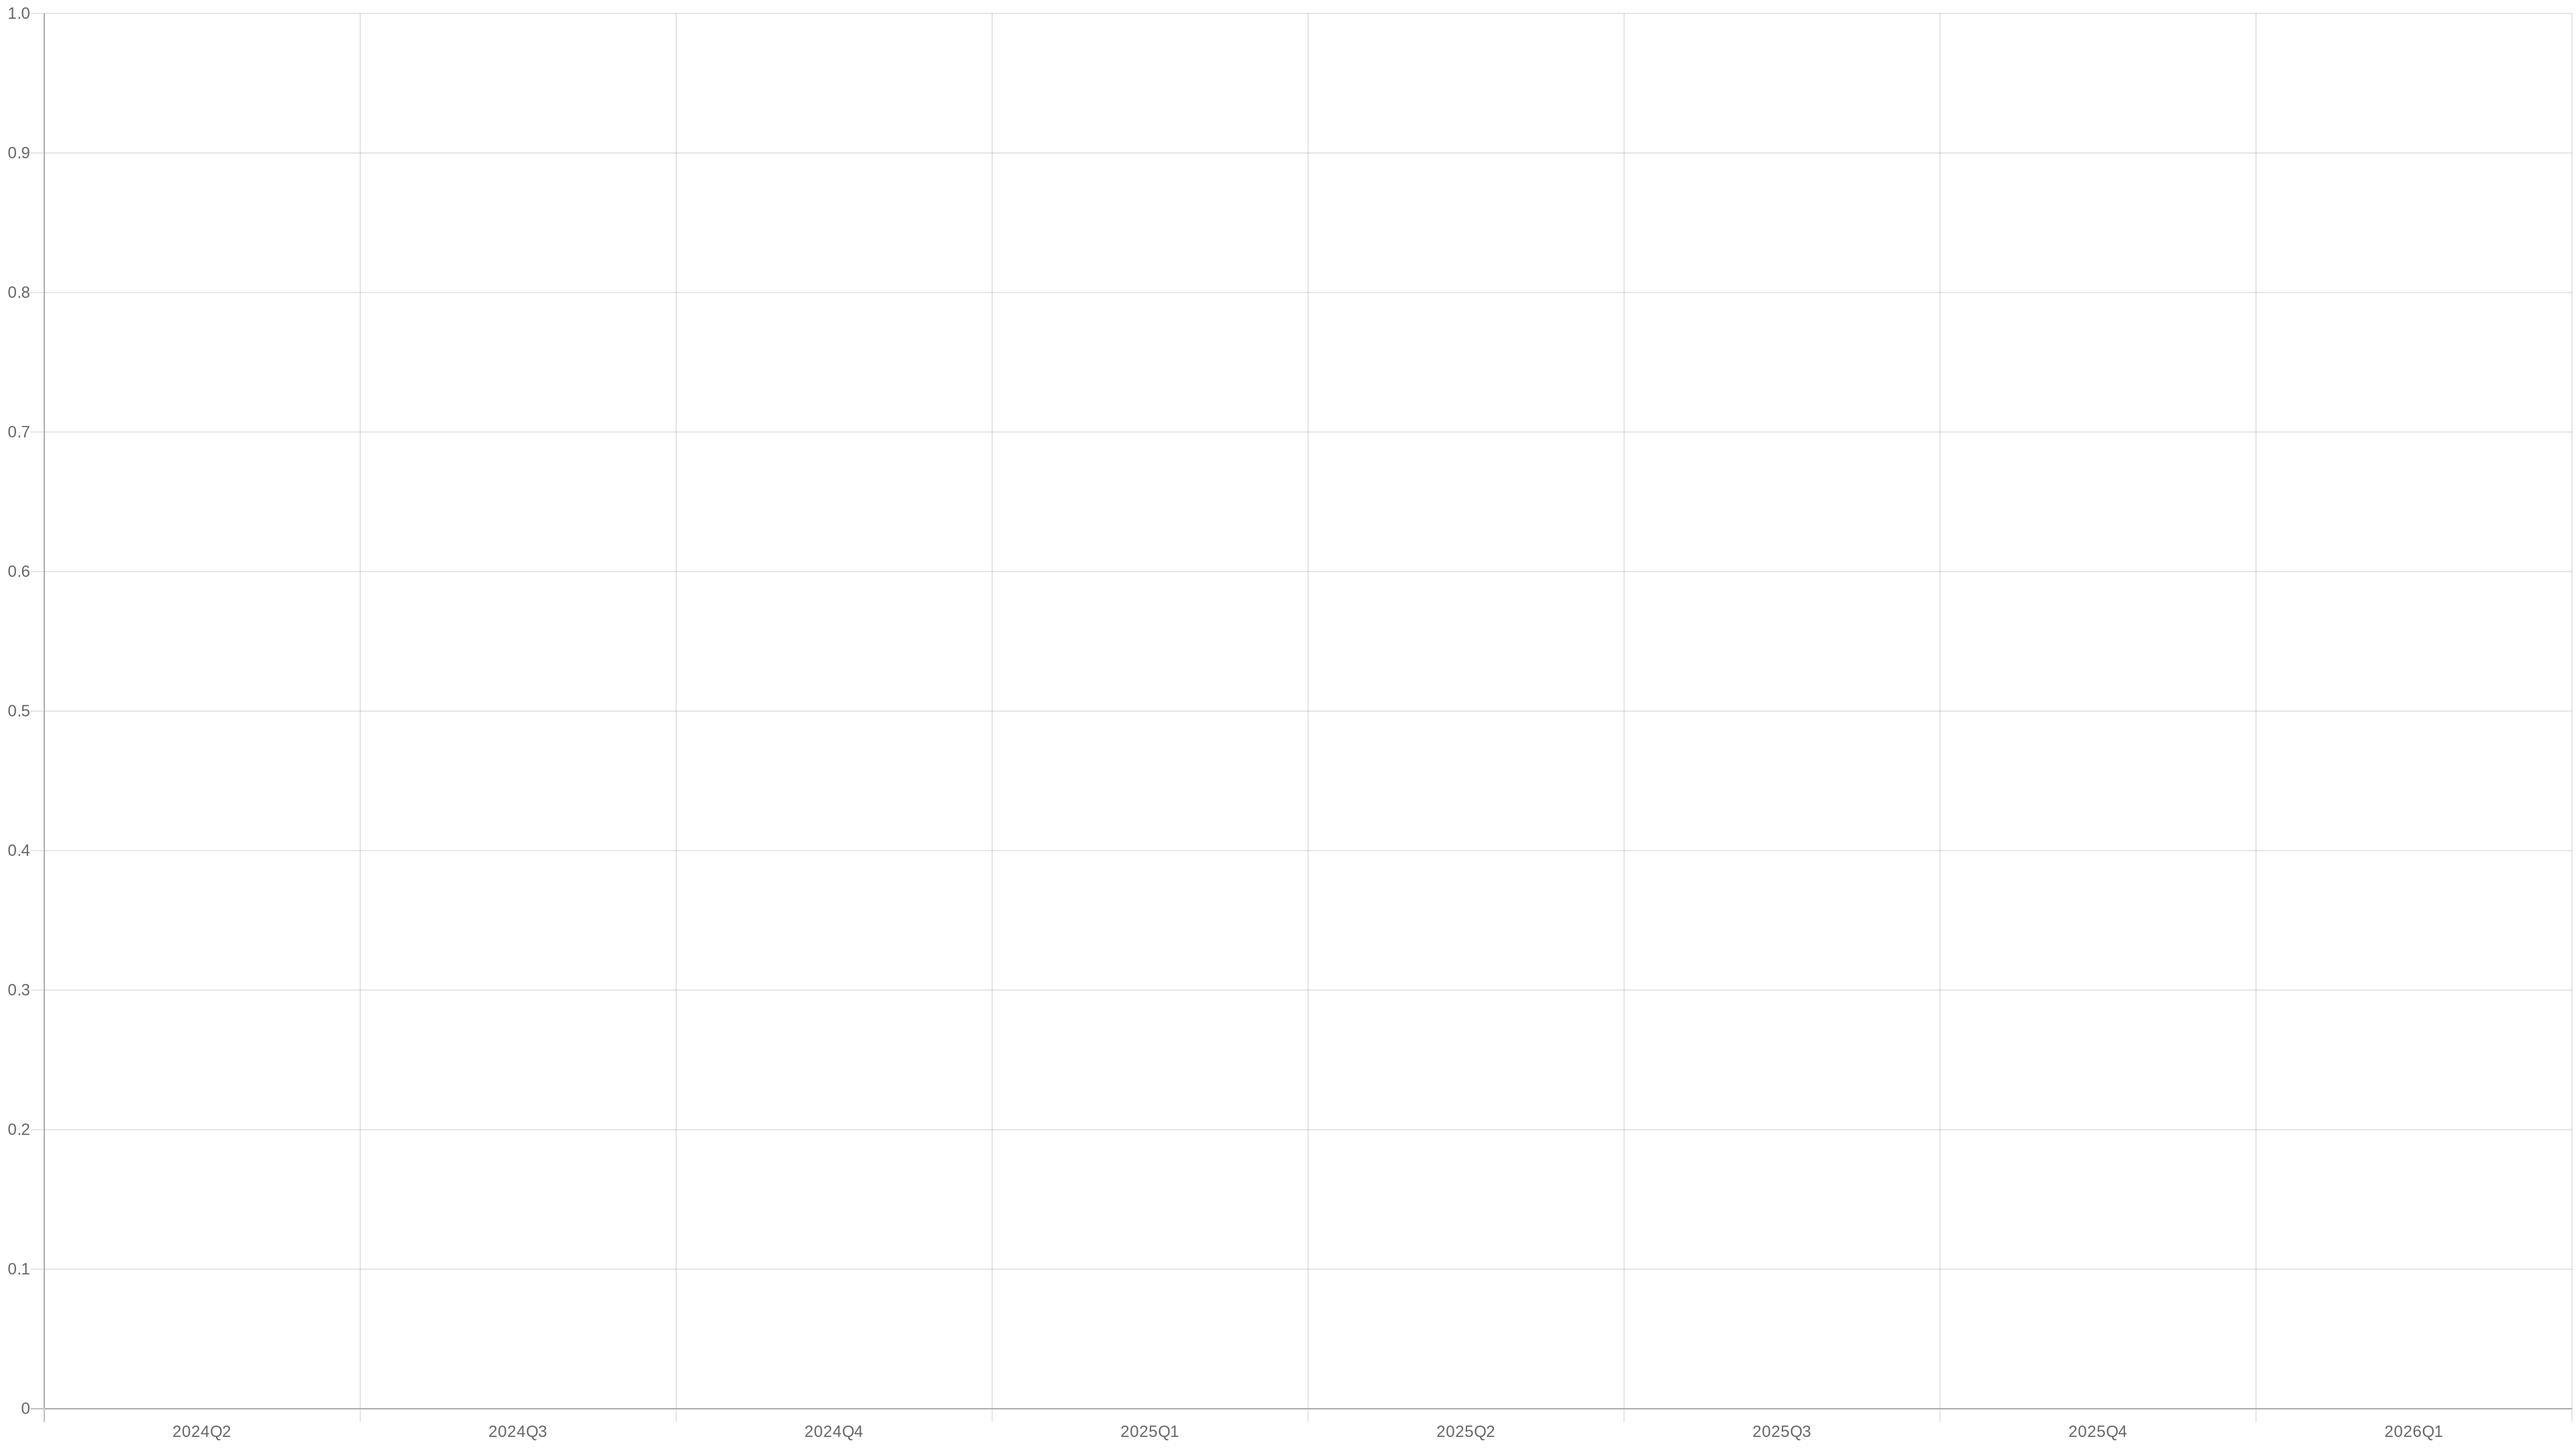
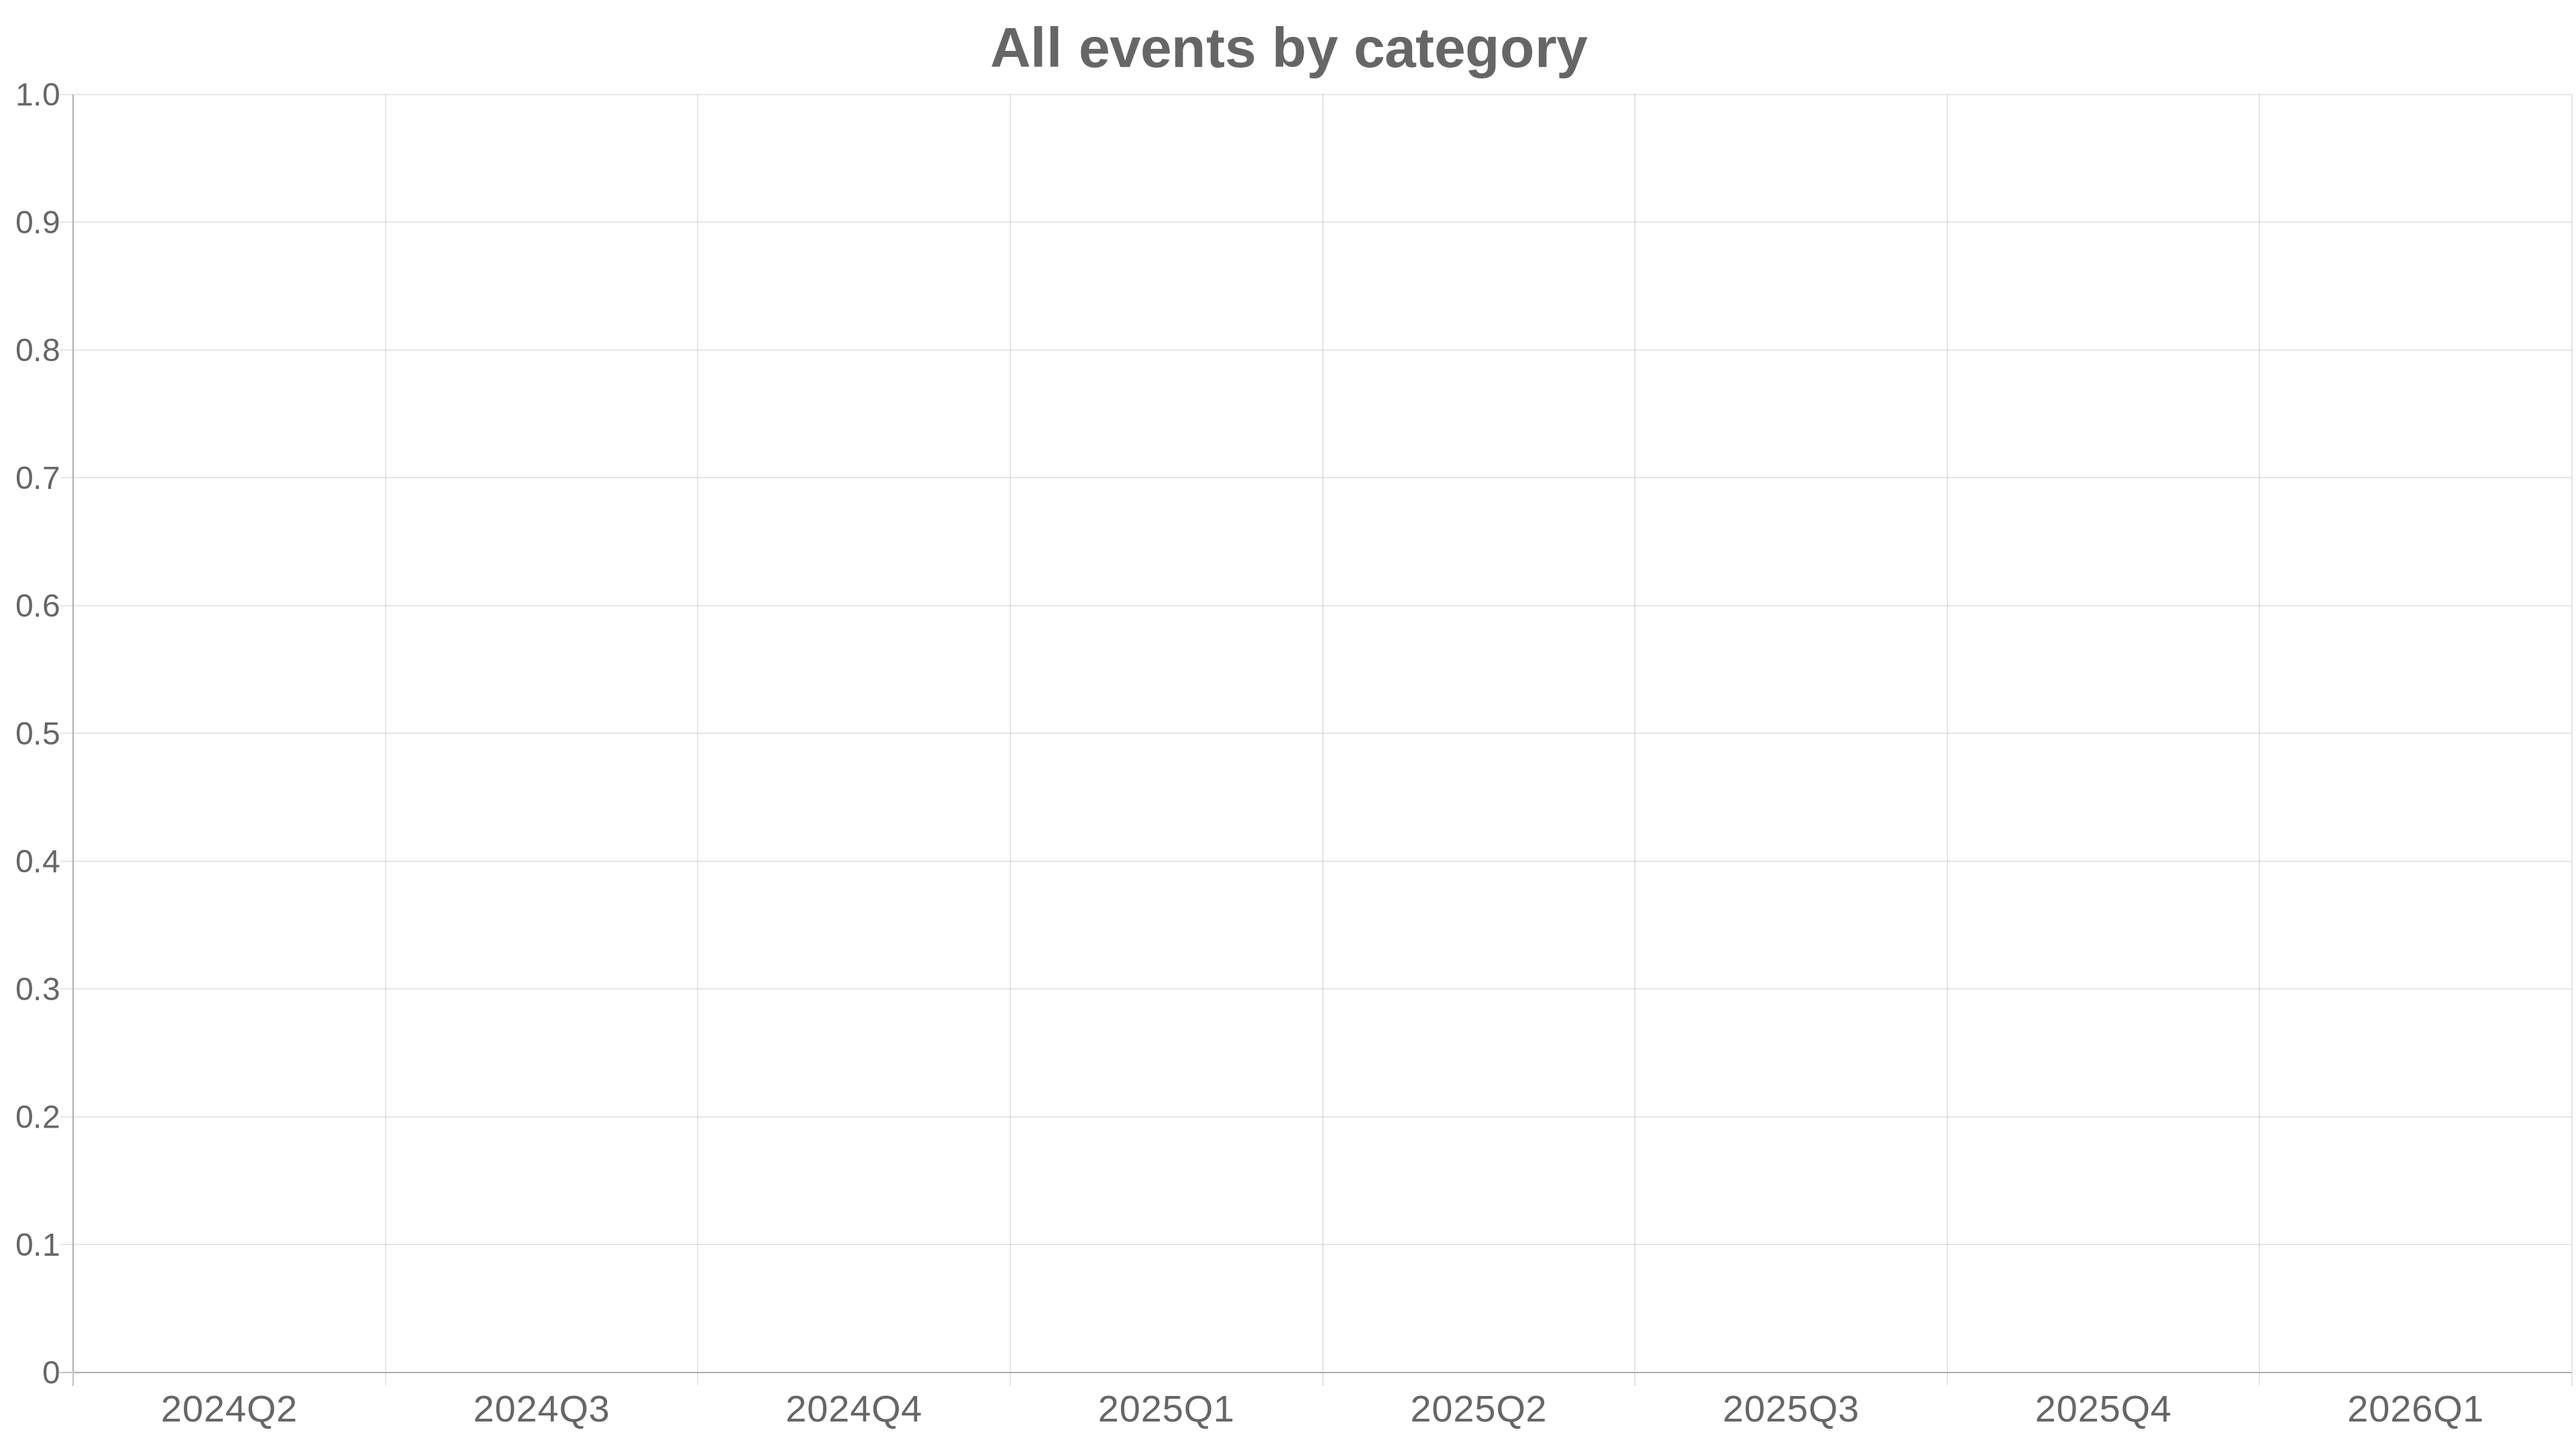
Fix category breakdown charts by skipping event type filtering
When diffsBreakdown is 'category' (not 'event_type'), we should not
apply event type filtering. The filterEventsByCategory function is
designed to filter event types within categories, not to filter
category names themselves.

This fixes graphs that break down by category (like "All events by
category") which were showing no data because the filter was trying
to match category names against event type lists.

diff --git a/supabase/functions/generate-chart/index.ts b/supabase/functions/generate-chart/index.ts
@@ -105,8 +105,8 @@ function transformDiffsToChartJs(data: any, config: any) {
   const breakdownKey = `by_${config.diffsBreakdown || 'event_type'}`;
   let breakdownData = data[breakdownKey] || {};
 
-  // Apply category filter if specified
-  if (config.diffsEventCategory && config.diffsEventCategory !== 'all') {
+  // Apply category filter only if breakdown is by event_type
+  if (config.diffsBreakdown === 'event_type' && config.diffsEventCategory && config.diffsEventCategory !== 'all') {
     breakdownData = filterEventsByCategory(breakdownData, config.diffsEventCategory);
   }
 

diff --git a/utils/testing/test-chart-generation.js b/utils/testing/test-chart-generation.js
@@ -203,8 +203,8 @@ function transformDiffsToChartJs(data, config) {
   const breakdownKey = `by_${config.diffsBreakdown || 'event_type'}`;
   let breakdownData = data[breakdownKey] || {};
 
-  // Apply category filter if specified
-  if (config.diffsEventCategory && config.diffsEventCategory !== 'all') {
+  // Apply category filter only if breakdown is by event_type
+  if (config.diffsBreakdown === 'event_type' && config.diffsEventCategory && config.diffsEventCategory !== 'all') {
     breakdownData = filterEventsByCategory(breakdownData, config.diffsEventCategory);
   }
 
